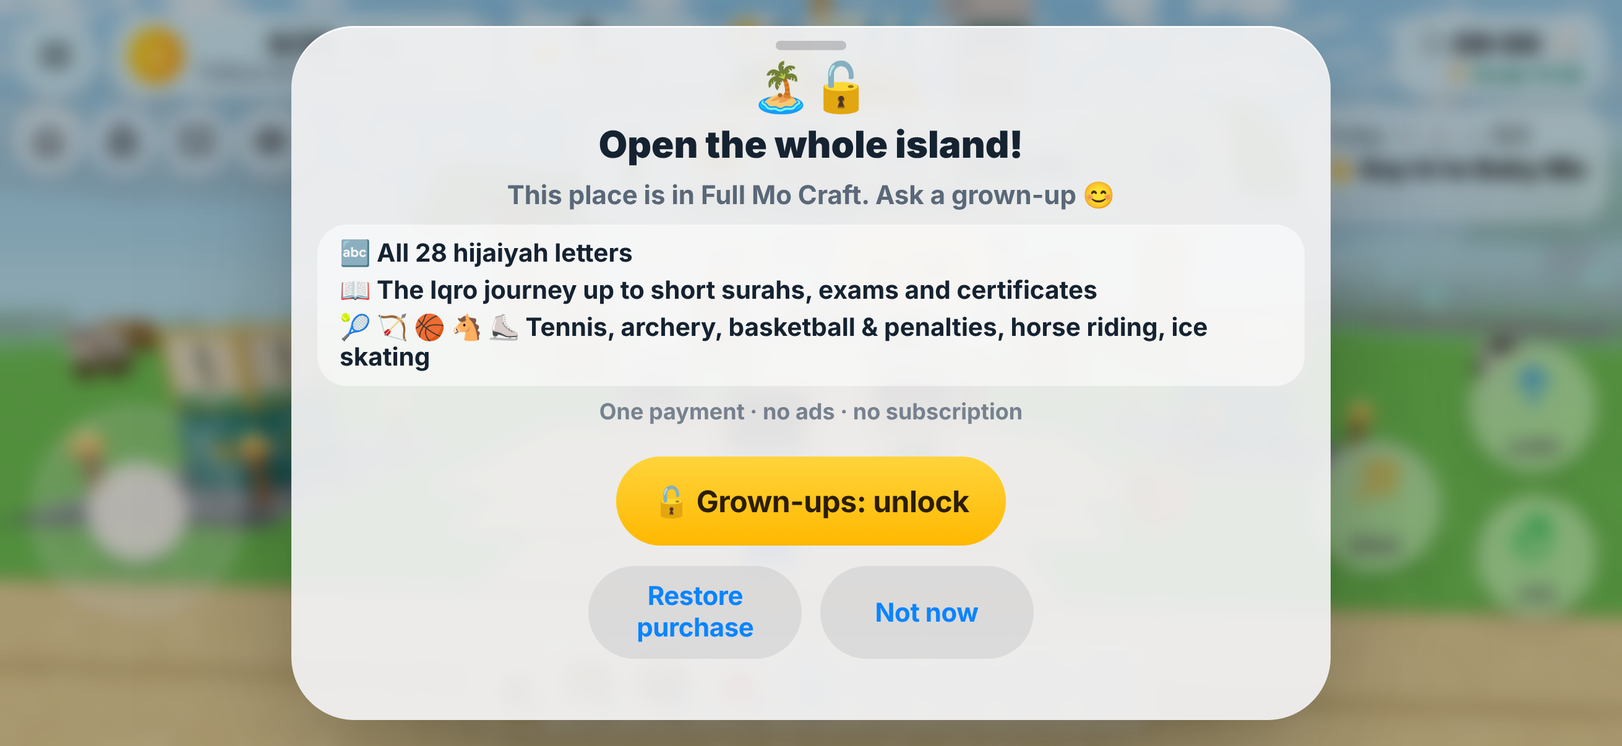
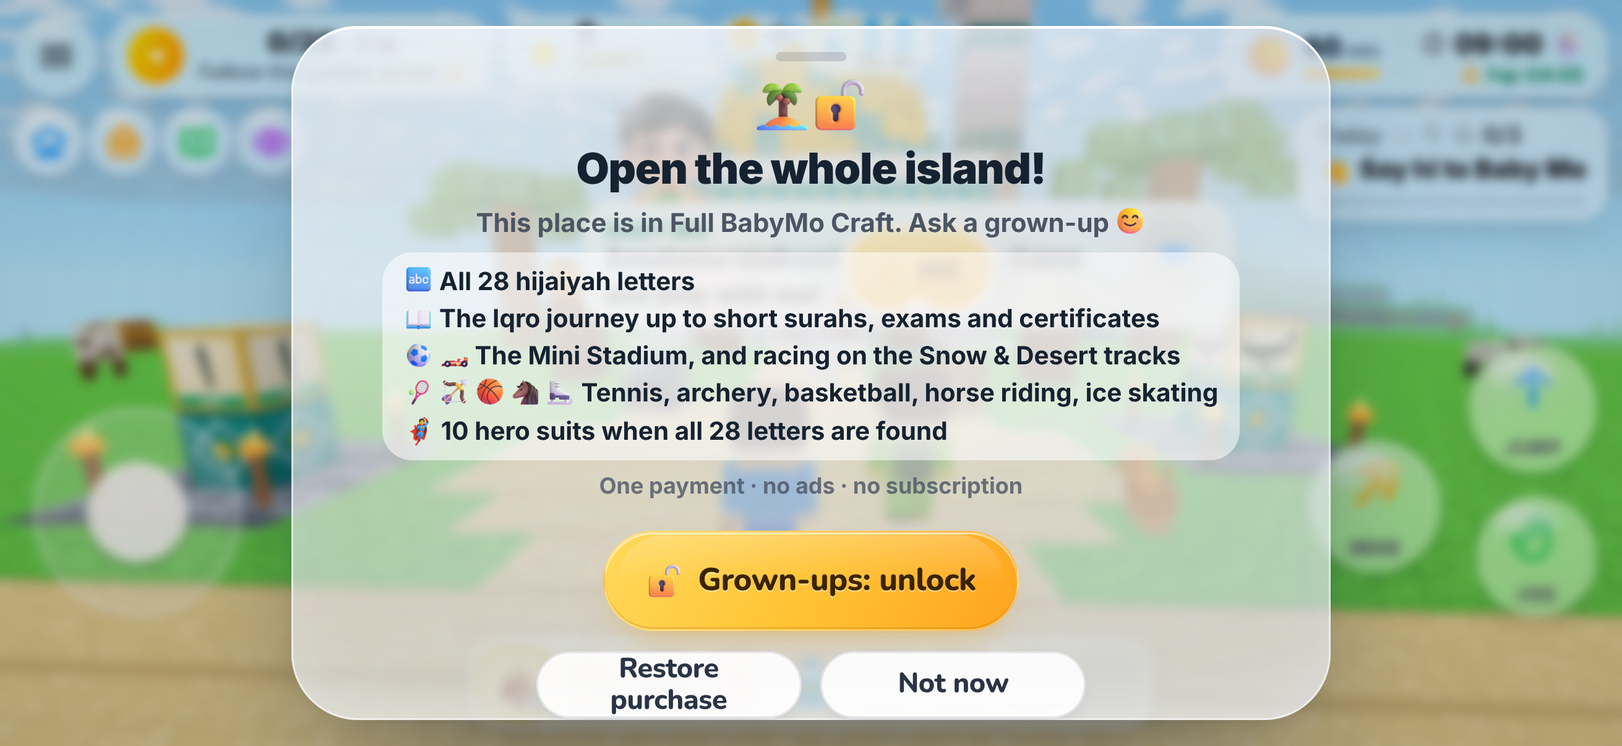
App Store kit: prayer-pause text and IAP shot; prayer scene hides the item bar and frames wide screens
Claude-Session: https://claude.ai/code/session_013wiJDRyxEnuoux6JMkpNFD

diff --git a/appstore/index.html b/appstore/index.html
@@ -97,7 +97,7 @@ a{color:var(--sea);font-weight:700}figure a{display:block}
 <div class="dl"><a class="big" href="header/MoCraft-SearchResults-3840x2560.png" download>⬇ Search Results image (3840 × 2560, PNG)</a></div></div>
 
 <nav class="tabs" aria-label="Listing language"><button id="t-en" aria-pressed="true" data-l="en">English</button><button id="t-id" aria-pressed="false" data-l="id">Indonesian</button></nav>
-<section class="lang" data-lang="en"><h2>English listing</h2><div class="field"><div class="fhead"><label for="en-name">App name</label><span class="count">12 / 30 characters</span><button class="copy" data-t="en-name">Copy</button></div><textarea id="en-name" readonly rows="2">BabyMo Craft</textarea></div><div class="field"><div class="fhead"><label for="en-subtitle">Subtitle</label><span class="count">27 / 30 characters</span><button class="copy" data-t="en-subtitle">Copy</button></div><textarea id="en-subtitle" readonly rows="2">Learn Iqro, Islam &amp; English</textarea></div><div class="field"><div class="fhead"><label for="en-promo">Promotional text</label><span class="count">152 / 170 characters</span><button class="copy" data-t="en-promo">Copy</button></div><textarea id="en-promo" readonly rows="3">New: kart races on snow and sand, a football stadium with Baby Mo and 10 hero suits! Plus the Iqro journey: words and short surahs after the 28 letters.</textarea></div><div class="field"><div class="fhead"><label for="en-keywords">Keywords</label><span class="count">99 / 100 bytes</span><button class="copy" data-t="en-keywords">Copy</button></div><textarea id="en-keywords" readonly rows="2">islamic,quran,iqro,hijaiyah,arabic,muslim,kids,prayer,wudu,ramadan,english,maths,learning,adventure</textarea></div><div class="field"><div class="fhead"><label for="en-description">Description</label><span class="count">2262 / 4000 characters</span><button class="copy" data-t="en-description">Copy</button></div><textarea id="en-description" readonly rows="18">Assalamu’alaikum! BabyMo Craft is a cozy island adventure where children learn about Islam, the Qur’an, English and simple maths — while they explore, build and play with their friend Baby Mo.
+<section class="lang" data-lang="en"><h2>English listing</h2><div class="field"><div class="fhead"><label for="en-name">App name</label><span class="count">12 / 30 characters</span><button class="copy" data-t="en-name">Copy</button></div><textarea id="en-name" readonly rows="2">BabyMo Craft</textarea></div><div class="field"><div class="fhead"><label for="en-subtitle">Subtitle</label><span class="count">27 / 30 characters</span><button class="copy" data-t="en-subtitle">Copy</button></div><textarea id="en-subtitle" readonly rows="2">Learn Iqro, Islam &amp; English</textarea></div><div class="field"><div class="fhead"><label for="en-promo">Promotional text</label><span class="count">157 / 170 characters</span><button class="copy" data-t="en-promo">Copy</button></div><textarea id="en-promo" readonly rows="3">New: the game pauses for the real prayer times, while Baby Mo and the villagers pray at the masjid. Plus kart races, football with Baby Mo and 10 hero suits!</textarea></div><div class="field"><div class="fhead"><label for="en-keywords">Keywords</label><span class="count">99 / 100 bytes</span><button class="copy" data-t="en-keywords">Copy</button></div><textarea id="en-keywords" readonly rows="2">islamic,quran,iqro,hijaiyah,arabic,muslim,kids,prayer,wudu,ramadan,english,maths,learning,adventure</textarea></div><div class="field"><div class="fhead"><label for="en-description">Description</label><span class="count">2763 / 4000 characters</span><button class="copy" data-t="en-description">Copy</button></div><textarea id="en-description" readonly rows="18">Assalamu’alaikum! BabyMo Craft is a cozy island adventure where children learn about Islam, the Qur’an, English and simple maths — while they explore, build and play with their friend Baby Mo.
 
 LEARN THE HIJAIYAH LETTERS
 • Follow the golden compass to 28 glowing letter shrines around the island.
@@ -113,6 +113,7 @@ THE IQRO JOURNEY
 WUDU AND PRAYER
 • Step-by-step picture guides for wudu and prayer.
 • The island keeps the real prayer times of your own town, anywhere in the world: dawn at Fajr, sunset at Maghrib.
+• When a real prayer time comes, the game pauses: Baby Mo’s card says it’s time to pray, while behind it everyone prays at the village masjid or the Grand Masjid. The play timer stops too, so praying never uses up play time.
 • At prayer time the villagers gather at the masjid — pray together in the row, led by the imam. Taqabbalallahu minna wa minkum!
 • Good words at the right moment, said by Baby Mo in Arabic: Bismillah to begin, Alhamdulillah for every gift, Masya Allah and Barakallahu fik for a job well done, Subhanallah for something beautiful, Insya Allah for next time.
 
@@ -133,8 +134,8 @@ MADE FOR FAMILIES
 • Parent area behind a grown-up check: daily play-time limit with a calm bedtime wind-down, and a learning report.
 • Plays in Indonesian or English.
 
-Made with love for our children, insya Allah.</textarea></div><div class="field"><div class="fhead"><label for="en-whatsnew">What's New</label><span class="count">65 / 4000 characters</span><button class="copy" data-t="en-whatsnew">Copy</button></div><textarea id="en-whatsnew" readonly rows="2">First release. Assalamu’alaikum! Explore the island with Baby Mo.</textarea></div><h3>iPhone with Dynamic Island (medium display) screenshots <span class="px">2622 × 1206 px · landscape</span></h3><p class="note">Required. App Store Connect scales it for the other iPhones.</p><div class="grid"><figure><a href="full/en/iphone-2622x1206/01-island.jpg" target="_blank"><img loading="lazy" src="shots/en-iphone-2622x1206-01-island.jpg" alt="The island"></a><figcaption><b>01</b> The island</figcaption></figure><figure><a href="full/en/iphone-2622x1206/02-letters.jpg" target="_blank"><img loading="lazy" src="shots/en-iphone-2622x1206-02-letters.jpg" alt="Hijaiyah letters"></a><figcaption><b>02</b> Hijaiyah letters</figcaption></figure><figure><a href="full/en/iphone-2622x1206/03-iqro.jpg" target="_blank"><img loading="lazy" src="shots/en-iphone-2622x1206-03-iqro.jpg" alt="Iqro lesson"></a><figcaption><b>03</b> Iqro lesson</figcaption></figure><figure><a href="full/en/iphone-2622x1206/04-prayer.jpg" target="_blank"><img loading="lazy" src="shots/en-iphone-2622x1206-04-prayer.jpg" alt="Prayer guide"></a><figcaption><b>04</b> Prayer guide</figcaption></figure><figure><a href="full/en/iphone-2622x1206/05-race.jpg" target="_blank"><img loading="lazy" src="shots/en-iphone-2622x1206-05-race.jpg" alt="Snow kart race"></a><figcaption><b>05</b> Snow kart race</figcaption></figure><figure><a href="full/en/iphone-2622x1206/06-stadium.jpg" target="_blank"><img loading="lazy" src="shots/en-iphone-2622x1206-06-stadium.jpg" alt="Football stadium"></a><figcaption><b>06</b> Football stadium</figcaption></figure><figure><a href="full/en/iphone-2622x1206/07-suits.jpg" target="_blank"><img loading="lazy" src="shots/en-iphone-2622x1206-07-suits.jpg" alt="Hero suits"></a><figcaption><b>07</b> Hero suits</figcaption></figure><figure><a href="full/en/iphone-2622x1206/08-horse.jpg" target="_blank"><img loading="lazy" src="shots/en-iphone-2622x1206-08-horse.jpg" alt="Horse jumping"></a><figcaption><b>08</b> Horse jumping</figcaption></figure><figure><a href="full/en/iphone-2622x1206/09-english.jpg" target="_blank"><img loading="lazy" src="shots/en-iphone-2622x1206-09-english.jpg" alt="English word cards"></a><figcaption><b>09</b> English word cards</figcaption></figure><figure><a href="full/en/iphone-2622x1206/10-parents.jpg" target="_blank"><img loading="lazy" src="shots/en-iphone-2622x1206-10-parents.jpg" alt="Parent area"></a><figcaption><b>10</b> Parent area</figcaption></figure></div><h3>iPhone Duo screenshots <span class="px">2034 × 1398 px · landscape</span></h3><p class="note">For the iPhone Duo tab.</p><div class="grid"><figure><a href="full/en/iphone-duo-2034x1398/01-island.jpg" target="_blank"><img loading="lazy" src="shots/en-iphone-duo-2034x1398-01-island.jpg" alt="The island"></a><figcaption><b>01</b> The island</figcaption></figure><figure><a href="full/en/iphone-duo-2034x1398/02-letters.jpg" target="_blank"><img loading="lazy" src="shots/en-iphone-duo-2034x1398-02-letters.jpg" alt="Hijaiyah letters"></a><figcaption><b>02</b> Hijaiyah letters</figcaption></figure><figure><a href="full/en/iphone-duo-2034x1398/03-iqro.jpg" target="_blank"><img loading="lazy" src="shots/en-iphone-duo-2034x1398-03-iqro.jpg" alt="Iqro lesson"></a><figcaption><b>03</b> Iqro lesson</figcaption></figure><figure><a href="full/en/iphone-duo-2034x1398/04-prayer.jpg" target="_blank"><img loading="lazy" src="shots/en-iphone-duo-2034x1398-04-prayer.jpg" alt="Prayer guide"></a><figcaption><b>04</b> Prayer guide</figcaption></figure><figure><a href="full/en/iphone-duo-2034x1398/05-race.jpg" target="_blank"><img loading="lazy" src="shots/en-iphone-duo-2034x1398-05-race.jpg" alt="Snow kart race"></a><figcaption><b>05</b> Snow kart race</figcaption></figure><figure><a href="full/en/iphone-duo-2034x1398/06-stadium.jpg" target="_blank"><img loading="lazy" src="shots/en-iphone-duo-2034x1398-06-stadium.jpg" alt="Football stadium"></a><figcaption><b>06</b> Football stadium</figcaption></figure><figure><a href="full/en/iphone-duo-2034x1398/07-suits.jpg" target="_blank"><img loading="lazy" src="shots/en-iphone-duo-2034x1398-07-suits.jpg" alt="Hero suits"></a><figcaption><b>07</b> Hero suits</figcaption></figure><figure><a href="full/en/iphone-duo-2034x1398/08-horse.jpg" target="_blank"><img loading="lazy" src="shots/en-iphone-duo-2034x1398-08-horse.jpg" alt="Horse jumping"></a><figcaption><b>08</b> Horse jumping</figcaption></figure><figure><a href="full/en/iphone-duo-2034x1398/09-english.jpg" target="_blank"><img loading="lazy" src="shots/en-iphone-duo-2034x1398-09-english.jpg" alt="English word cards"></a><figcaption><b>09</b> English word cards</figcaption></figure><figure><a href="full/en/iphone-duo-2034x1398/10-parents.jpg" target="_blank"><img loading="lazy" src="shots/en-iphone-duo-2034x1398-10-parents.jpg" alt="Parent area"></a><figcaption><b>10</b> Parent area</figcaption></figure></div><h3>iPad 13″ display screenshots <span class="px">2752 × 2064 px · landscape</span></h3><p class="note">Required because the app runs on iPad.</p><div class="grid"><figure><a href="full/en/ipad-2752x2064/01-island.jpg" target="_blank"><img loading="lazy" src="shots/en-ipad-2752x2064-01-island.jpg" alt="The island"></a><figcaption><b>01</b> The island</figcaption></figure><figure><a href="full/en/ipad-2752x2064/02-letters.jpg" target="_blank"><img loading="lazy" src="shots/en-ipad-2752x2064-02-letters.jpg" alt="Hijaiyah letters"></a><figcaption><b>02</b> Hijaiyah letters</figcaption></figure><figure><a href="full/en/ipad-2752x2064/03-iqro.jpg" target="_blank"><img loading="lazy" src="shots/en-ipad-2752x2064-03-iqro.jpg" alt="Iqro lesson"></a><figcaption><b>03</b> Iqro lesson</figcaption></figure><figure><a href="full/en/ipad-2752x2064/04-prayer.jpg" target="_blank"><img loading="lazy" src="shots/en-ipad-2752x2064-04-prayer.jpg" alt="Prayer guide"></a><figcaption><b>04</b> Prayer guide</figcaption></figure><figure><a href="full/en/ipad-2752x2064/05-race.jpg" target="_blank"><img loading="lazy" src="shots/en-ipad-2752x2064-05-race.jpg" alt="Snow kart race"></a><figcaption><b>05</b> Snow kart race</figcaption></figure><figure><a href="full/en/ipad-2752x2064/06-stadium.jpg" target="_blank"><img loading="lazy" src="shots/en-ipad-2752x2064-06-stadium.jpg" alt="Football stadium"></a><figcaption><b>06</b> Football stadium</figcaption></figure><figure><a href="full/en/ipad-2752x2064/07-suits.jpg" target="_blank"><img loading="lazy" src="shots/en-ipad-2752x2064-07-suits.jpg" alt="Hero suits"></a><figcaption><b>07</b> Hero suits</figcaption></figure><figure><a href="full/en/ipad-2752x2064/08-horse.jpg" target="_blank"><img loading="lazy" src="shots/en-ipad-2752x2064-08-horse.jpg" alt="Horse jumping"></a><figcaption><b>08</b> Horse jumping</figcaption></figure><figure><a href="full/en/ipad-2752x2064/09-english.jpg" target="_blank"><img loading="lazy" src="shots/en-ipad-2752x2064-09-english.jpg" alt="English word cards"></a><figcaption><b>09</b> English word cards</figcaption></figure><figure><a href="full/en/ipad-2752x2064/10-parents.jpg" target="_blank"><img loading="lazy" src="shots/en-ipad-2752x2064-10-parents.jpg" alt="Parent area"></a><figcaption><b>10</b> Parent area</figcaption></figure></div></section>
-<section class="lang" data-lang="id"><h2>Indonesian listing</h2><div class="field"><div class="fhead"><label for="id-name">App name</label><span class="count">12 / 30 characters</span><button class="copy" data-t="id-name">Copy</button></div><textarea id="id-name" readonly rows="2">BabyMo Craft</textarea></div><div class="field"><div class="fhead"><label for="id-subtitle">Subtitle</label><span class="count">29 / 30 characters</span><button class="copy" data-t="id-subtitle">Copy</button></div><textarea id="id-subtitle" readonly rows="2">Belajar Iqro, Islam &amp; Inggris</textarea></div><div class="field"><div class="fhead"><label for="id-promo">Promotional text</label><span class="count">140 / 170 characters</span><button class="copy" data-t="id-promo">Copy</button></div><textarea id="id-promo" readonly rows="3">Baru: balap gokart di salju dan gurun, stadion sepak bola bersama Baby Mo, dan 10 kostum pahlawan! Plus perjalanan Iqro sampai surat pendek.</textarea></div><div class="field"><div class="fhead"><label for="id-keywords">Keywords</label><span class="count">94 / 100 bytes</span><button class="copy" data-t="id-keywords">Copy</button></div><textarea id="id-keywords" readonly rows="2">islami,quran,iqro,hijaiyah,mengaji,muslim,anak,sholat,wudhu,ramadhan,inggris,berhitung,edukasi</textarea></div><div class="field"><div class="fhead"><label for="id-description">Description</label><span class="count">2472 / 4000 characters</span><button class="copy" data-t="id-description">Copy</button></div><textarea id="id-description" readonly rows="18">Assalamu’alaikum! BabyMo Craft adalah petualangan di pulau yang seru, tempat anak-anak belajar tentang Islam, Al-Qur’an, bahasa Inggris, dan berhitung — sambil menjelajah, membangun, dan bermain bersama sahabatnya, Baby Mo.
+Made with love for our children, insya Allah.</textarea></div><div class="field"><div class="fhead"><label for="en-whatsnew">What's New</label><span class="count">65 / 4000 characters</span><button class="copy" data-t="en-whatsnew">Copy</button></div><textarea id="en-whatsnew" readonly rows="2">First release. Assalamu’alaikum! Explore the island with Baby Mo.</textarea></div><h3>iPhone with Dynamic Island (medium display) screenshots <span class="px">2622 × 1206 px · landscape</span></h3><p class="note">Required. App Store Connect scales it for the other iPhones.</p><div class="grid"><figure><a href="full/en/iphone-2622x1206/01-island.jpg" target="_blank"><img loading="lazy" src="shots/en-iphone-2622x1206-01-island.jpg" alt="The island"></a><figcaption><b>01</b> The island</figcaption></figure><figure><a href="full/en/iphone-2622x1206/02-letters.jpg" target="_blank"><img loading="lazy" src="shots/en-iphone-2622x1206-02-letters.jpg" alt="Hijaiyah letters"></a><figcaption><b>02</b> Hijaiyah letters</figcaption></figure><figure><a href="full/en/iphone-2622x1206/03-iqro.jpg" target="_blank"><img loading="lazy" src="shots/en-iphone-2622x1206-03-iqro.jpg" alt="Iqro lesson"></a><figcaption><b>03</b> Iqro lesson</figcaption></figure><figure><a href="full/en/iphone-2622x1206/04-prayer.jpg" target="_blank"><img loading="lazy" src="shots/en-iphone-2622x1206-04-prayer.jpg" alt="Prayer time"></a><figcaption><b>04</b> Prayer time/figcaption></figure><figure><a href="full/en/iphone-2622x1206/05-race.jpg" target="_blank"><img loading="lazy" src="shots/en-iphone-2622x1206-05-race.jpg" alt="Snow kart race"></a><figcaption><b>05</b> Snow kart race</figcaption></figure><figure><a href="full/en/iphone-2622x1206/06-stadium.jpg" target="_blank"><img loading="lazy" src="shots/en-iphone-2622x1206-06-stadium.jpg" alt="Football stadium"></a><figcaption><b>06</b> Football stadium</figcaption></figure><figure><a href="full/en/iphone-2622x1206/07-suits.jpg" target="_blank"><img loading="lazy" src="shots/en-iphone-2622x1206-07-suits.jpg" alt="Hero suits"></a><figcaption><b>07</b> Hero suits</figcaption></figure><figure><a href="full/en/iphone-2622x1206/08-horse.jpg" target="_blank"><img loading="lazy" src="shots/en-iphone-2622x1206-08-horse.jpg" alt="Horse jumping"></a><figcaption><b>08</b> Horse jumping</figcaption></figure><figure><a href="full/en/iphone-2622x1206/09-english.jpg" target="_blank"><img loading="lazy" src="shots/en-iphone-2622x1206-09-english.jpg" alt="English word cards"></a><figcaption><b>09</b> English word cards</figcaption></figure><figure><a href="full/en/iphone-2622x1206/10-parents.jpg" target="_blank"><img loading="lazy" src="shots/en-iphone-2622x1206-10-parents.jpg" alt="Parent area"></a><figcaption><b>10</b> Parent area</figcaption></figure></div><h3>iPhone Duo screenshots <span class="px">2034 × 1398 px · landscape</span></h3><p class="note">For the iPhone Duo tab.</p><div class="grid"><figure><a href="full/en/iphone-duo-2034x1398/01-island.jpg" target="_blank"><img loading="lazy" src="shots/en-iphone-duo-2034x1398-01-island.jpg" alt="The island"></a><figcaption><b>01</b> The island</figcaption></figure><figure><a href="full/en/iphone-duo-2034x1398/02-letters.jpg" target="_blank"><img loading="lazy" src="shots/en-iphone-duo-2034x1398-02-letters.jpg" alt="Hijaiyah letters"></a><figcaption><b>02</b> Hijaiyah letters</figcaption></figure><figure><a href="full/en/iphone-duo-2034x1398/03-iqro.jpg" target="_blank"><img loading="lazy" src="shots/en-iphone-duo-2034x1398-03-iqro.jpg" alt="Iqro lesson"></a><figcaption><b>03</b> Iqro lesson</figcaption></figure><figure><a href="full/en/iphone-duo-2034x1398/04-prayer.jpg" target="_blank"><img loading="lazy" src="shots/en-iphone-duo-2034x1398-04-prayer.jpg" alt="Prayer time"></a><figcaption><b>04</b> Prayer time/figcaption></figure><figure><a href="full/en/iphone-duo-2034x1398/05-race.jpg" target="_blank"><img loading="lazy" src="shots/en-iphone-duo-2034x1398-05-race.jpg" alt="Snow kart race"></a><figcaption><b>05</b> Snow kart race</figcaption></figure><figure><a href="full/en/iphone-duo-2034x1398/06-stadium.jpg" target="_blank"><img loading="lazy" src="shots/en-iphone-duo-2034x1398-06-stadium.jpg" alt="Football stadium"></a><figcaption><b>06</b> Football stadium</figcaption></figure><figure><a href="full/en/iphone-duo-2034x1398/07-suits.jpg" target="_blank"><img loading="lazy" src="shots/en-iphone-duo-2034x1398-07-suits.jpg" alt="Hero suits"></a><figcaption><b>07</b> Hero suits</figcaption></figure><figure><a href="full/en/iphone-duo-2034x1398/08-horse.jpg" target="_blank"><img loading="lazy" src="shots/en-iphone-duo-2034x1398-08-horse.jpg" alt="Horse jumping"></a><figcaption><b>08</b> Horse jumping</figcaption></figure><figure><a href="full/en/iphone-duo-2034x1398/09-english.jpg" target="_blank"><img loading="lazy" src="shots/en-iphone-duo-2034x1398-09-english.jpg" alt="English word cards"></a><figcaption><b>09</b> English word cards</figcaption></figure><figure><a href="full/en/iphone-duo-2034x1398/10-parents.jpg" target="_blank"><img loading="lazy" src="shots/en-iphone-duo-2034x1398-10-parents.jpg" alt="Parent area"></a><figcaption><b>10</b> Parent area</figcaption></figure></div><h3>iPad 13″ display screenshots <span class="px">2752 × 2064 px · landscape</span></h3><p class="note">Required because the app runs on iPad.</p><div class="grid"><figure><a href="full/en/ipad-2752x2064/01-island.jpg" target="_blank"><img loading="lazy" src="shots/en-ipad-2752x2064-01-island.jpg" alt="The island"></a><figcaption><b>01</b> The island</figcaption></figure><figure><a href="full/en/ipad-2752x2064/02-letters.jpg" target="_blank"><img loading="lazy" src="shots/en-ipad-2752x2064-02-letters.jpg" alt="Hijaiyah letters"></a><figcaption><b>02</b> Hijaiyah letters</figcaption></figure><figure><a href="full/en/ipad-2752x2064/03-iqro.jpg" target="_blank"><img loading="lazy" src="shots/en-ipad-2752x2064-03-iqro.jpg" alt="Iqro lesson"></a><figcaption><b>03</b> Iqro lesson</figcaption></figure><figure><a href="full/en/ipad-2752x2064/04-prayer.jpg" target="_blank"><img loading="lazy" src="shots/en-ipad-2752x2064-04-prayer.jpg" alt="Prayer time"></a><figcaption><b>04</b> Prayer time/figcaption></figure><figure><a href="full/en/ipad-2752x2064/05-race.jpg" target="_blank"><img loading="lazy" src="shots/en-ipad-2752x2064-05-race.jpg" alt="Snow kart race"></a><figcaption><b>05</b> Snow kart race</figcaption></figure><figure><a href="full/en/ipad-2752x2064/06-stadium.jpg" target="_blank"><img loading="lazy" src="shots/en-ipad-2752x2064-06-stadium.jpg" alt="Football stadium"></a><figcaption><b>06</b> Football stadium</figcaption></figure><figure><a href="full/en/ipad-2752x2064/07-suits.jpg" target="_blank"><img loading="lazy" src="shots/en-ipad-2752x2064-07-suits.jpg" alt="Hero suits"></a><figcaption><b>07</b> Hero suits</figcaption></figure><figure><a href="full/en/ipad-2752x2064/08-horse.jpg" target="_blank"><img loading="lazy" src="shots/en-ipad-2752x2064-08-horse.jpg" alt="Horse jumping"></a><figcaption><b>08</b> Horse jumping</figcaption></figure><figure><a href="full/en/ipad-2752x2064/09-english.jpg" target="_blank"><img loading="lazy" src="shots/en-ipad-2752x2064-09-english.jpg" alt="English word cards"></a><figcaption><b>09</b> English word cards</figcaption></figure><figure><a href="full/en/ipad-2752x2064/10-parents.jpg" target="_blank"><img loading="lazy" src="shots/en-ipad-2752x2064-10-parents.jpg" alt="Parent area"></a><figcaption><b>10</b> Parent area</figcaption></figure></div></section>
+<section class="lang" data-lang="id"><h2>Indonesian listing</h2><div class="field"><div class="fhead"><label for="id-name">App name</label><span class="count">12 / 30 characters</span><button class="copy" data-t="id-name">Copy</button></div><textarea id="id-name" readonly rows="2">BabyMo Craft</textarea></div><div class="field"><div class="fhead"><label for="id-subtitle">Subtitle</label><span class="count">29 / 30 characters</span><button class="copy" data-t="id-subtitle">Copy</button></div><textarea id="id-subtitle" readonly rows="2">Belajar Iqro, Islam &amp; Inggris</textarea></div><div class="field"><div class="fhead"><label for="id-promo">Promotional text</label><span class="count">160 / 170 characters</span><button class="copy" data-t="id-promo">Copy</button></div><textarea id="id-promo" readonly rows="3">Baru: game berhenti saat waktu sholat tiba, sementara Baby Mo dan warga sholat di masjid. Plus balap gokart, sepak bola bersama Baby Mo, dan 10 kostum pahlawan!</textarea></div><div class="field"><div class="fhead"><label for="id-keywords">Keywords</label><span class="count">94 / 100 bytes</span><button class="copy" data-t="id-keywords">Copy</button></div><textarea id="id-keywords" readonly rows="2">islami,quran,iqro,hijaiyah,mengaji,muslim,anak,sholat,wudhu,ramadhan,inggris,berhitung,edukasi</textarea></div><div class="field"><div class="fhead"><label for="id-description">Description</label><span class="count">3009 / 4000 characters</span><button class="copy" data-t="id-description">Copy</button></div><textarea id="id-description" readonly rows="18">Assalamu’alaikum! BabyMo Craft adalah petualangan di pulau yang seru, tempat anak-anak belajar tentang Islam, Al-Qur’an, bahasa Inggris, dan berhitung — sambil menjelajah, membangun, dan bermain bersama sahabatnya, Baby Mo.
 
 BELAJAR HURUF HIJAIYAH
 • Ikuti kompas emas ke 28 kuil huruf yang bersinar di seluruh pulau.
@@ -150,6 +151,7 @@ PERJALANAN IQRO
 WUDHU DAN SHOLAT
 • Panduan bergambar wudhu dan sholat, langkah demi langkah.
 • Pulau mengikuti waktu sholat asli di kotamu sendiri, di mana pun di dunia: fajar saat Subuh, matahari terbenam saat Maghrib.
+• Saat waktu sholat tiba, game berhenti sejenak: kartu Baby Mo mengajak sholat, sementara di belakangnya semua sholat berjamaah di masjid desa atau Masjid Raya. Waktu main juga berhenti, jadi sholat tidak mengurangi waktu bermain.
 • Saat waktu sholat, warga berkumpul di masjid — sholat berjamaah di shaf, dipimpin imam. Taqabbalallahu minna wa minkum!
 • Kalimat baik di saat yang tepat, diucapkan Baby Mo dalam bahasa Arab: Bismillah untuk memulai, Alhamdulillah untuk setiap nikmat, Masya Allah dan Barakallahu fik untuk kerja yang bagus, Subhanallah untuk yang indah, Insya Allah untuk lain kali.
 
@@ -170,7 +172,7 @@ DIBUAT UNTUK KELUARGA
 • Area orang tua dengan soal hitungan untuk orang dewasa: batas waktu main harian dengan pengantar tidur yang tenang, dan laporan belajar.
 • Bisa dimainkan dalam bahasa Indonesia atau Inggris.
 
-Dibuat dengan cinta untuk anak-anak kita, insya Allah.</textarea></div><div class="field"><div class="fhead"><label for="id-whatsnew">What's New</label><span class="count">64 / 4000 characters</span><button class="copy" data-t="id-whatsnew">Copy</button></div><textarea id="id-whatsnew" readonly rows="2">Rilis pertama. Assalamu’alaikum! Jelajahi pulau bersama Baby Mo.</textarea></div><h3>iPhone with Dynamic Island (medium display) screenshots <span class="px">2622 × 1206 px · landscape</span></h3><p class="note">Required. App Store Connect scales it for the other iPhones.</p><div class="grid"><figure><a href="full/id/iphone-2622x1206/01-island.jpg" target="_blank"><img loading="lazy" src="shots/id-iphone-2622x1206-01-island.jpg" alt="The island"></a><figcaption><b>01</b> The island</figcaption></figure><figure><a href="full/id/iphone-2622x1206/02-letters.jpg" target="_blank"><img loading="lazy" src="shots/id-iphone-2622x1206-02-letters.jpg" alt="Hijaiyah letters"></a><figcaption><b>02</b> Hijaiyah letters</figcaption></figure><figure><a href="full/id/iphone-2622x1206/03-iqro.jpg" target="_blank"><img loading="lazy" src="shots/id-iphone-2622x1206-03-iqro.jpg" alt="Iqro lesson"></a><figcaption><b>03</b> Iqro lesson</figcaption></figure><figure><a href="full/id/iphone-2622x1206/04-prayer.jpg" target="_blank"><img loading="lazy" src="shots/id-iphone-2622x1206-04-prayer.jpg" alt="Prayer guide"></a><figcaption><b>04</b> Prayer guide</figcaption></figure><figure><a href="full/id/iphone-2622x1206/05-race.jpg" target="_blank"><img loading="lazy" src="shots/id-iphone-2622x1206-05-race.jpg" alt="Snow kart race"></a><figcaption><b>05</b> Snow kart race</figcaption></figure><figure><a href="full/id/iphone-2622x1206/06-stadium.jpg" target="_blank"><img loading="lazy" src="shots/id-iphone-2622x1206-06-stadium.jpg" alt="Football stadium"></a><figcaption><b>06</b> Football stadium</figcaption></figure><figure><a href="full/id/iphone-2622x1206/07-suits.jpg" target="_blank"><img loading="lazy" src="shots/id-iphone-2622x1206-07-suits.jpg" alt="Hero suits"></a><figcaption><b>07</b> Hero suits</figcaption></figure><figure><a href="full/id/iphone-2622x1206/08-horse.jpg" target="_blank"><img loading="lazy" src="shots/id-iphone-2622x1206-08-horse.jpg" alt="Horse jumping"></a><figcaption><b>08</b> Horse jumping</figcaption></figure><figure><a href="full/id/iphone-2622x1206/09-english.jpg" target="_blank"><img loading="lazy" src="shots/id-iphone-2622x1206-09-english.jpg" alt="English word cards"></a><figcaption><b>09</b> English word cards</figcaption></figure><figure><a href="full/id/iphone-2622x1206/10-parents.jpg" target="_blank"><img loading="lazy" src="shots/id-iphone-2622x1206-10-parents.jpg" alt="Parent area"></a><figcaption><b>10</b> Parent area</figcaption></figure></div><h3>iPhone Duo screenshots <span class="px">2034 × 1398 px · landscape</span></h3><p class="note">For the iPhone Duo tab.</p><div class="grid"><figure><a href="full/id/iphone-duo-2034x1398/01-island.jpg" target="_blank"><img loading="lazy" src="shots/id-iphone-duo-2034x1398-01-island.jpg" alt="The island"></a><figcaption><b>01</b> The island</figcaption></figure><figure><a href="full/id/iphone-duo-2034x1398/02-letters.jpg" target="_blank"><img loading="lazy" src="shots/id-iphone-duo-2034x1398-02-letters.jpg" alt="Hijaiyah letters"></a><figcaption><b>02</b> Hijaiyah letters</figcaption></figure><figure><a href="full/id/iphone-duo-2034x1398/03-iqro.jpg" target="_blank"><img loading="lazy" src="shots/id-iphone-duo-2034x1398-03-iqro.jpg" alt="Iqro lesson"></a><figcaption><b>03</b> Iqro lesson</figcaption></figure><figure><a href="full/id/iphone-duo-2034x1398/04-prayer.jpg" target="_blank"><img loading="lazy" src="shots/id-iphone-duo-2034x1398-04-prayer.jpg" alt="Prayer guide"></a><figcaption><b>04</b> Prayer guide</figcaption></figure><figure><a href="full/id/iphone-duo-2034x1398/05-race.jpg" target="_blank"><img loading="lazy" src="shots/id-iphone-duo-2034x1398-05-race.jpg" alt="Snow kart race"></a><figcaption><b>05</b> Snow kart race</figcaption></figure><figure><a href="full/id/iphone-duo-2034x1398/06-stadium.jpg" target="_blank"><img loading="lazy" src="shots/id-iphone-duo-2034x1398-06-stadium.jpg" alt="Football stadium"></a><figcaption><b>06</b> Football stadium</figcaption></figure><figure><a href="full/id/iphone-duo-2034x1398/07-suits.jpg" target="_blank"><img loading="lazy" src="shots/id-iphone-duo-2034x1398-07-suits.jpg" alt="Hero suits"></a><figcaption><b>07</b> Hero suits</figcaption></figure><figure><a href="full/id/iphone-duo-2034x1398/08-horse.jpg" target="_blank"><img loading="lazy" src="shots/id-iphone-duo-2034x1398-08-horse.jpg" alt="Horse jumping"></a><figcaption><b>08</b> Horse jumping</figcaption></figure><figure><a href="full/id/iphone-duo-2034x1398/09-english.jpg" target="_blank"><img loading="lazy" src="shots/id-iphone-duo-2034x1398-09-english.jpg" alt="English word cards"></a><figcaption><b>09</b> English word cards</figcaption></figure><figure><a href="full/id/iphone-duo-2034x1398/10-parents.jpg" target="_blank"><img loading="lazy" src="shots/id-iphone-duo-2034x1398-10-parents.jpg" alt="Parent area"></a><figcaption><b>10</b> Parent area</figcaption></figure></div><h3>iPad 13″ display screenshots <span class="px">2752 × 2064 px · landscape</span></h3><p class="note">Required because the app runs on iPad.</p><div class="grid"><figure><a href="full/id/ipad-2752x2064/01-island.jpg" target="_blank"><img loading="lazy" src="shots/id-ipad-2752x2064-01-island.jpg" alt="The island"></a><figcaption><b>01</b> The island</figcaption></figure><figure><a href="full/id/ipad-2752x2064/02-letters.jpg" target="_blank"><img loading="lazy" src="shots/id-ipad-2752x2064-02-letters.jpg" alt="Hijaiyah letters"></a><figcaption><b>02</b> Hijaiyah letters</figcaption></figure><figure><a href="full/id/ipad-2752x2064/03-iqro.jpg" target="_blank"><img loading="lazy" src="shots/id-ipad-2752x2064-03-iqro.jpg" alt="Iqro lesson"></a><figcaption><b>03</b> Iqro lesson</figcaption></figure><figure><a href="full/id/ipad-2752x2064/04-prayer.jpg" target="_blank"><img loading="lazy" src="shots/id-ipad-2752x2064-04-prayer.jpg" alt="Prayer guide"></a><figcaption><b>04</b> Prayer guide</figcaption></figure><figure><a href="full/id/ipad-2752x2064/05-race.jpg" target="_blank"><img loading="lazy" src="shots/id-ipad-2752x2064-05-race.jpg" alt="Snow kart race"></a><figcaption><b>05</b> Snow kart race</figcaption></figure><figure><a href="full/id/ipad-2752x2064/06-stadium.jpg" target="_blank"><img loading="lazy" src="shots/id-ipad-2752x2064-06-stadium.jpg" alt="Football stadium"></a><figcaption><b>06</b> Football stadium</figcaption></figure><figure><a href="full/id/ipad-2752x2064/07-suits.jpg" target="_blank"><img loading="lazy" src="shots/id-ipad-2752x2064-07-suits.jpg" alt="Hero suits"></a><figcaption><b>07</b> Hero suits</figcaption></figure><figure><a href="full/id/ipad-2752x2064/08-horse.jpg" target="_blank"><img loading="lazy" src="shots/id-ipad-2752x2064-08-horse.jpg" alt="Horse jumping"></a><figcaption><b>08</b> Horse jumping</figcaption></figure><figure><a href="full/id/ipad-2752x2064/09-english.jpg" target="_blank"><img loading="lazy" src="shots/id-ipad-2752x2064-09-english.jpg" alt="English word cards"></a><figcaption><b>09</b> English word cards</figcaption></figure><figure><a href="full/id/ipad-2752x2064/10-parents.jpg" target="_blank"><img loading="lazy" src="shots/id-ipad-2752x2064-10-parents.jpg" alt="Parent area"></a><figcaption><b>10</b> Parent area</figcaption></figure></div></section>
+Dibuat dengan cinta untuk anak-anak kita, insya Allah.</textarea></div><div class="field"><div class="fhead"><label for="id-whatsnew">What's New</label><span class="count">64 / 4000 characters</span><button class="copy" data-t="id-whatsnew">Copy</button></div><textarea id="id-whatsnew" readonly rows="2">Rilis pertama. Assalamu’alaikum! Jelajahi pulau bersama Baby Mo.</textarea></div><h3>iPhone with Dynamic Island (medium display) screenshots <span class="px">2622 × 1206 px · landscape</span></h3><p class="note">Required. App Store Connect scales it for the other iPhones.</p><div class="grid"><figure><a href="full/id/iphone-2622x1206/01-island.jpg" target="_blank"><img loading="lazy" src="shots/id-iphone-2622x1206-01-island.jpg" alt="The island"></a><figcaption><b>01</b> The island</figcaption></figure><figure><a href="full/id/iphone-2622x1206/02-letters.jpg" target="_blank"><img loading="lazy" src="shots/id-iphone-2622x1206-02-letters.jpg" alt="Hijaiyah letters"></a><figcaption><b>02</b> Hijaiyah letters</figcaption></figure><figure><a href="full/id/iphone-2622x1206/03-iqro.jpg" target="_blank"><img loading="lazy" src="shots/id-iphone-2622x1206-03-iqro.jpg" alt="Iqro lesson"></a><figcaption><b>03</b> Iqro lesson</figcaption></figure><figure><a href="full/id/iphone-2622x1206/04-prayer.jpg" target="_blank"><img loading="lazy" src="shots/id-iphone-2622x1206-04-prayer.jpg" alt="Prayer time"></a><figcaption><b>04</b> Prayer time/figcaption></figure><figure><a href="full/id/iphone-2622x1206/05-race.jpg" target="_blank"><img loading="lazy" src="shots/id-iphone-2622x1206-05-race.jpg" alt="Snow kart race"></a><figcaption><b>05</b> Snow kart race</figcaption></figure><figure><a href="full/id/iphone-2622x1206/06-stadium.jpg" target="_blank"><img loading="lazy" src="shots/id-iphone-2622x1206-06-stadium.jpg" alt="Football stadium"></a><figcaption><b>06</b> Football stadium</figcaption></figure><figure><a href="full/id/iphone-2622x1206/07-suits.jpg" target="_blank"><img loading="lazy" src="shots/id-iphone-2622x1206-07-suits.jpg" alt="Hero suits"></a><figcaption><b>07</b> Hero suits</figcaption></figure><figure><a href="full/id/iphone-2622x1206/08-horse.jpg" target="_blank"><img loading="lazy" src="shots/id-iphone-2622x1206-08-horse.jpg" alt="Horse jumping"></a><figcaption><b>08</b> Horse jumping</figcaption></figure><figure><a href="full/id/iphone-2622x1206/09-english.jpg" target="_blank"><img loading="lazy" src="shots/id-iphone-2622x1206-09-english.jpg" alt="English word cards"></a><figcaption><b>09</b> English word cards</figcaption></figure><figure><a href="full/id/iphone-2622x1206/10-parents.jpg" target="_blank"><img loading="lazy" src="shots/id-iphone-2622x1206-10-parents.jpg" alt="Parent area"></a><figcaption><b>10</b> Parent area</figcaption></figure></div><h3>iPhone Duo screenshots <span class="px">2034 × 1398 px · landscape</span></h3><p class="note">For the iPhone Duo tab.</p><div class="grid"><figure><a href="full/id/iphone-duo-2034x1398/01-island.jpg" target="_blank"><img loading="lazy" src="shots/id-iphone-duo-2034x1398-01-island.jpg" alt="The island"></a><figcaption><b>01</b> The island</figcaption></figure><figure><a href="full/id/iphone-duo-2034x1398/02-letters.jpg" target="_blank"><img loading="lazy" src="shots/id-iphone-duo-2034x1398-02-letters.jpg" alt="Hijaiyah letters"></a><figcaption><b>02</b> Hijaiyah letters</figcaption></figure><figure><a href="full/id/iphone-duo-2034x1398/03-iqro.jpg" target="_blank"><img loading="lazy" src="shots/id-iphone-duo-2034x1398-03-iqro.jpg" alt="Iqro lesson"></a><figcaption><b>03</b> Iqro lesson</figcaption></figure><figure><a href="full/id/iphone-duo-2034x1398/04-prayer.jpg" target="_blank"><img loading="lazy" src="shots/id-iphone-duo-2034x1398-04-prayer.jpg" alt="Prayer time"></a><figcaption><b>04</b> Prayer time/figcaption></figure><figure><a href="full/id/iphone-duo-2034x1398/05-race.jpg" target="_blank"><img loading="lazy" src="shots/id-iphone-duo-2034x1398-05-race.jpg" alt="Snow kart race"></a><figcaption><b>05</b> Snow kart race</figcaption></figure><figure><a href="full/id/iphone-duo-2034x1398/06-stadium.jpg" target="_blank"><img loading="lazy" src="shots/id-iphone-duo-2034x1398-06-stadium.jpg" alt="Football stadium"></a><figcaption><b>06</b> Football stadium</figcaption></figure><figure><a href="full/id/iphone-duo-2034x1398/07-suits.jpg" target="_blank"><img loading="lazy" src="shots/id-iphone-duo-2034x1398-07-suits.jpg" alt="Hero suits"></a><figcaption><b>07</b> Hero suits</figcaption></figure><figure><a href="full/id/iphone-duo-2034x1398/08-horse.jpg" target="_blank"><img loading="lazy" src="shots/id-iphone-duo-2034x1398-08-horse.jpg" alt="Horse jumping"></a><figcaption><b>08</b> Horse jumping</figcaption></figure><figure><a href="full/id/iphone-duo-2034x1398/09-english.jpg" target="_blank"><img loading="lazy" src="shots/id-iphone-duo-2034x1398-09-english.jpg" alt="English word cards"></a><figcaption><b>09</b> English word cards</figcaption></figure><figure><a href="full/id/iphone-duo-2034x1398/10-parents.jpg" target="_blank"><img loading="lazy" src="shots/id-iphone-duo-2034x1398-10-parents.jpg" alt="Parent area"></a><figcaption><b>10</b> Parent area</figcaption></figure></div><h3>iPad 13″ display screenshots <span class="px">2752 × 2064 px · landscape</span></h3><p class="note">Required because the app runs on iPad.</p><div class="grid"><figure><a href="full/id/ipad-2752x2064/01-island.jpg" target="_blank"><img loading="lazy" src="shots/id-ipad-2752x2064-01-island.jpg" alt="The island"></a><figcaption><b>01</b> The island</figcaption></figure><figure><a href="full/id/ipad-2752x2064/02-letters.jpg" target="_blank"><img loading="lazy" src="shots/id-ipad-2752x2064-02-letters.jpg" alt="Hijaiyah letters"></a><figcaption><b>02</b> Hijaiyah letters</figcaption></figure><figure><a href="full/id/ipad-2752x2064/03-iqro.jpg" target="_blank"><img loading="lazy" src="shots/id-ipad-2752x2064-03-iqro.jpg" alt="Iqro lesson"></a><figcaption><b>03</b> Iqro lesson</figcaption></figure><figure><a href="full/id/ipad-2752x2064/04-prayer.jpg" target="_blank"><img loading="lazy" src="shots/id-ipad-2752x2064-04-prayer.jpg" alt="Prayer time"></a><figcaption><b>04</b> Prayer time/figcaption></figure><figure><a href="full/id/ipad-2752x2064/05-race.jpg" target="_blank"><img loading="lazy" src="shots/id-ipad-2752x2064-05-race.jpg" alt="Snow kart race"></a><figcaption><b>05</b> Snow kart race</figcaption></figure><figure><a href="full/id/ipad-2752x2064/06-stadium.jpg" target="_blank"><img loading="lazy" src="shots/id-ipad-2752x2064-06-stadium.jpg" alt="Football stadium"></a><figcaption><b>06</b> Football stadium</figcaption></figure><figure><a href="full/id/ipad-2752x2064/07-suits.jpg" target="_blank"><img loading="lazy" src="shots/id-ipad-2752x2064-07-suits.jpg" alt="Hero suits"></a><figcaption><b>07</b> Hero suits</figcaption></figure><figure><a href="full/id/ipad-2752x2064/08-horse.jpg" target="_blank"><img loading="lazy" src="shots/id-ipad-2752x2064-08-horse.jpg" alt="Horse jumping"></a><figcaption><b>08</b> Horse jumping</figcaption></figure><figure><a href="full/id/ipad-2752x2064/09-english.jpg" target="_blank"><img loading="lazy" src="shots/id-ipad-2752x2064-09-english.jpg" alt="English word cards"></a><figcaption><b>09</b> English word cards</figcaption></figure><figure><a href="full/id/ipad-2752x2064/10-parents.jpg" target="_blank"><img loading="lazy" src="shots/id-ipad-2752x2064-10-parents.jpg" alt="Parent area"></a><figcaption><b>10</b> Parent area</figcaption></figure></div></section>
 
 <div class="cols">
 <div class="card"><h3 style="margin:0">App Privacy</h3>

diff --git a/src/main.ts b/src/main.ts
@@ -2279,12 +2279,20 @@ export class Game {
     const grand = s.site.id === 'grand', sway = Math.sin(s.t * 0.22);
     if (this.camera.fov !== 78) { this.camera.fov = 78; this.camera.updateProjectionMatrix(); } // (a wider view of the hall)
     if (grand) {
+      // (a tall phone looks down more, so the rows sit above the card; a wide screen looks across the hall)
+      const down = this.camera.aspect < 1 ? 3.2 : 1.6;
       this.camera.position.set(r.x + sway * 1.2, r.y + 4.4, r.z + 3.0);
-      this.camera.lookAt(r.x + sway * 0.36, r.y - 3.2, r.z - 1.2);
+      this.camera.lookAt(r.x + sway * 0.36, r.y - down, r.z - 1.2);
     } else {
       // the village masjid is small: from a back corner, so the whole row and the imam fit on a phone
-      this.camera.position.set(r.x + 5.2 + sway * 0.4, r.y + 3.6, r.z + 4.4);
-      this.camera.lookAt(r.x - 0.3, r.y - 2.4, r.z - 0.4);
+      if (this.camera.aspect < 1) {
+        this.camera.position.set(r.x + 5.2 + sway * 0.4, r.y + 3.6, r.z + 4.4);
+        this.camera.lookAt(r.x - 0.3, r.y - 2.4, r.z - 0.4);
+      } else {
+        // a wide screen: from behind the row, the card on the right, so the row sits left of the middle
+        this.camera.position.set(r.x + 1.6 + sway * 0.5, r.y + 2.6, r.z + 4.4);
+        this.camera.lookAt(r.x + 2.9, r.y + 0.2, r.z - 2);
+      }
     }
   }
   private endPrayScene() {

diff --git a/src/kids.css b/src/kids.css
@@ -212,5 +212,6 @@
 .veil.prayVeil > .panel { padding-top: 12px; padding-bottom: 12px; }
 .veil.prayVeil .prayHold .phTxt { font-size: 14px; line-height: 1.35; margin-top: 2px; }
 .veil.prayVeil .prayHold .phWait { margin: 4px 0 2px; }
-html.prayScene #hud, html.prayScene #hotbarWrap, html.prayScene #hotbar, html.prayScene .moHost, html.prayScene #dzikir, html.prayScene .amalChip { visibility: hidden !important; }
+/* (display, not visibility: the item pictures in the bar set their own visibility and would still show) */
+html.prayScene #hud, html.prayScene #hotbarWrap, html.prayScene .moHost, html.prayScene #dzikir, html.prayScene .amalChip { display: none !important; }
 @media (max-height: 520px) { .veil.prayVeil { place-items: center end !important; } .veil.prayVeil > .panel { max-height: 92vh; width: min(380px, 50vw); margin: 0 12px 0 0; } }

diff --git a/CHANGELOG.md b/CHANGELOG.md
@@ -5,6 +5,18 @@ All notable changes to Baby Mo Island Craft. V2 work follows the plan in
 
 ## V2 — The Living Island (in progress)
 
+### App Store kit: the prayer pause; the masjid scene framed for every screen
+
+- Screenshot 04 is now the prayer pause ("Stops for the real prayer times"):
+  Baby Mo's card over the Grand Masjid, everyone praying in rows. The other
+  shots are re-taken with the new buttons, glass windows and race circuits.
+- The description (EN/ID) has a line on the prayer pause, and the promo text
+  leads with it. The in-app purchase review screenshot shows the new card.
+- Behind the prayer card the item bar is hidden for real (its pictures set
+  their own visibility, so the bar is now taken out of the layout), and on a
+  wide screen the camera frames the whole village row beside the card and
+  looks across the Grand Masjid instead of down at its carpet.
+
 ### Racing: real circuits, one thing at a time
 
 - **Real circuit shapes instead of ovals.** Each track is now built from
